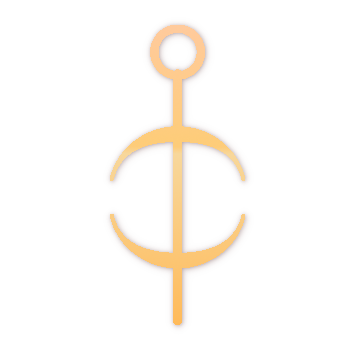
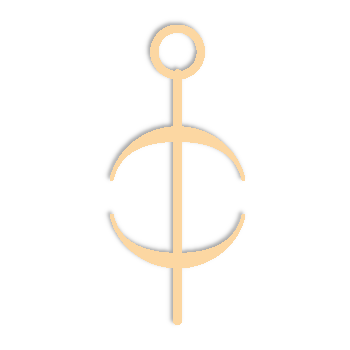
test

Changed region(s): [[0.2857, 0.1143, 0.7143, 0.9429], [0.4, 0.0571, 0.5429, 0.1714], [0.6857, 0.4857, 0.7143, 0.5143]]

diff --git a/src/pages/blog.js b/src/pages/blog.js
@@ -24,7 +24,7 @@ class Blog extends Component {
               <div className="blog-title">
                 Bel list
               </div>
-              <div className="blog-text pisava-17">Si kdaj pomislil, da ko se rodiš, si kot bel, nepopisan list. Nato prve zapise, na ta tvoj lep beli list,
+              <div className="blog-text pisava-13">Si kdaj pomislil, da ko se rodiš, si kot bel, nepopisan list. Nato prve zapise, na ta tvoj lep beli list,
               naredijo tvoji starši, kasneje jim seveda pomagajo tudi stari starši (ker bog ne daj, brez njih res
               ne gre ;)). Nekaj časa so oni tvoji učitelji, vodiči, »vsevedi« in mogoče še kakšna starejša sestra ali
               brat, za povrh, da je mera polna <span className="emoji">😉</span>. Ja, prav vsi te učijo, usmerjajo in itak vedo kaj je najbolje zate.
@@ -33,7 +33,7 @@ class Blog extends Component {
               Zraven pa puščajo svojo sled, na tem čudovitem listu, seveda tudi prijatelji…tisti »ta najboljši« in
               tisti malo manj »boljši«.
               <br />
-              Potem nastopi »ta resen« del….služba. Okolica in sodelavci pridno igrajo svojo vlogo pri pisanju
+              Potem nastopi »ta resen« del… služba. Okolica in sodelavci pridno igrajo svojo vlogo pri pisanju
               na tvoj list.
               <br />
               Nato spoznaš Ljubezen svojega življenja (če ne gre v prvo, pa mogoče v drugo, tretje….no,
@@ -42,7 +42,7 @@ class Blog extends Component {
                 <br />
               Takrat nastopiš v svoji najboljši verziji, ki jo potegneš na plano, čez vest ta »balast«.  Na začetku
               se ti razprejo krila, zadihaš s polnimi pljuči, imaš zalet. In ko imaš občutek, da boš poletel v svoji
-              najboljši verziji…BAM…pristanek na zadnjico in dobrodošel v »realnosti«. Goriva je zmanjkalo ali
+              najboljši verziji… BAM …pristanek na zadnjico in dobrodošel v »realnosti«. Goriva je zmanjkalo ali
               smetana se je polizala.
               <br />
               Na plano pridejo vsi ti »tvoji« zapisi. In velikokrat niti ne »porajtaš«, da pravzaprav razmišljaš,
@@ -75,10 +75,10 @@ class Blog extends Component {
               zadržuje, je potrebno zopet delati na sebi.
               <br />
                 <br />
-              Ja, če se odločiš za delo na sebi, ti garantiram, ne bo ti dolgčas in ne bo ti zmanjkalo dela  <span className="emoji">😃</span> .
+              Ja, če se odločiš za delo na sebi, ti garantiram, ne bo ti dolgčas in ne bo ti zmanjkalo dela  <span className="emoji">😃</span>.
               <br />
                 <br />
-              Je pa noro dober OBČUTEK, ko se osvobodiš določenih spon, prepričan, vzorcev...POLETIŠ <span className="emoji">😉</span>
+              Je pa noro dober OBČUTEK, ko se osvobodiš določenih spon, prepričan, vzorcev... POLETIŠ <span className="emoji">😉</span>
               </div>
             </div>
             <div className="blog-item">
@@ -101,7 +101,7 @@ class Blog extends Component {
                 Vam je že jasno, kam pes taco moli?? <span className="emoji" role="img">🤔</span><span className="emoji" role="img">😎</span>
                 <br />
                 <br />
-                Ker sva imela različne poglede na določene situacije in ker se nisva znala pogovarjat, izraziti, kaj šele poslušati je velikokrat prišlo, da je bila slika brez tona <span className="emoji" role="img">😕</span> (to je bil <strong><i>vzrok</i></strong> najinih prepričanj). Zdaj ko gledam nazaj, je prav hecno, kako sva v marsikateri situaciji »merila« moči<span className="emoji" role="img">😊</span>. Jaz z besedam, ker že od nekdaj sem bila vešča v komunikaciji (pa pustimo  »malenkost «, da imamo »pravo« in »nepravo« komunikacijo <span className="emoji" role="img">🙂</span>  ), on z neodzivnostjo ali molkom. Včasih sva trmarila in vlekla vsak v svojo stran, kot da vlečeva vrv ipd. Vmes pa sva še dovoljevala vmešavanje (direktno in indirektno) okolice. In ker se take situacije nikoli ne vlečejo v nedogled, je sledila <i><strong>posledica</strong></i> - ločitev. In vsak od naju je doprinesel 50:50 k situaciji.
+                Ker sva imela različne poglede na določene situacije in ker se nisva znala pogovarjat, izraziti, kaj šele poslušati je velikokrat prišlo, da je bila slika brez tona <span className="emoji" role="img">😕</span> (to je bil <strong><i>vzrok</i></strong> najinih prepričanj). Zdaj ko gledam nazaj, je prav hecno, kako sva v marsikateri situaciji »merila« moči<span className="emoji" role="img">😊</span>. Jaz z besedam, ker že od nekdaj sem bila vešča v komunikaciji (pa pustimo  »malenkost«, da imamo pravo in nepravo komunikacijo <span className="emoji" role="img">🙂</span>  ), on z neodzivnostjo ali molkom. Včasih sva trmarila in vlekla vsak v svojo stran, kot da vlečeva vrv ipd. Vmes pa sva še dovoljevala vmešavanje (direktno in indirektno) okolice. In ker se take situacije nikoli ne vlečejo v nedogled, je sledila <i><strong>posledica</strong></i> - ločitev. In vsak od naju je doprinesel 50:50 k situaciji.
                 <br />
                 <br />
                 In šele sedaj, po parih letih dela na sebi, sem dojela koncept <strong>prepričanje/vzrok/posledica</strong>.

diff --git a/src/pages/omeni.js b/src/pages/omeni.js
@@ -21,66 +21,6 @@ const OMeni = () => (
             </span>
           </p>
         </div>
-        <div className="o-meni-quote ">
-          <span className="quote-logo">
-            <img src="../icons/quote-left.png" alt="Logo" />
-          </span>
-          <p className="quote-text test-1">
-            {' '}Odnosi so najdragocenejša lastnina v naših življenjih in si zaslužijo,
-          da z njimi tako tudi ravnamo.{'    '}
-            <span className="author">(dr.Nate Booth)</span>
-
-            <span className="quote-logo">
-              <img src="../icons/quote-right.png" alt="Logo" />
-              <br />
-            </span>
-          </p>
-        </div>
-        <div className="o-meni-quote">
-          <span className="quote-logo">
-            <img src="../icons/quote-left.png" alt="Logo" />
-          </span>
-          <p className="quote-text test-2">
-            {' '}Odnosi so najdragocenejša lastnina v naših življenjih in si zaslužijo,
-          da z njimi tako tudi ravnamo.{'    '}
-            <span className="author">(dr.Nate Booth)</span>
-
-            <span className="quote-logo">
-              <img src="../icons/quote-right.png" alt="Logo" />
-              <br />
-            </span>
-          </p>
-        </div>
-        <div className="o-meni-quote">
-          <span className="quote-logo">
-            <img src="../icons/quote-left.png" alt="Logo" />
-          </span>
-          <p className="quote-text test-3">
-            {' '}Odnosi so najdragocenejša lastnina v naših življenjih in si zaslužijo,
-          da z njimi tako tudi ravnamo.{'    '}
-            <span className="author">(dr.Nate Booth)</span>
-
-            <span className="quote-logo">
-              <img src="../icons/quote-right.png" alt="Logo" />
-              <br />
-            </span>
-          </p>
-        </div>
-        <div className="o-meni-quote">
-          <span className="quote-logo">
-            <img src="../icons/quote-left.png" alt="Logo" />
-          </span>
-          <p className="quote-text test-4">
-            {' '}Odnosi so najdragocenejša lastnina v naših življenjih in si zaslužijo,
-          da z njimi tako tudi ravnamo.{'    '}
-            <span className="author">(dr.Nate Booth)</span>
-
-            <span className="quote-logo">
-              <img src="../icons/quote-right.png" alt="Logo" />
-              <br />
-            </span>
-          </p>
-        </div>
         <div className="box-container" /* style={{
           backgroundImage: `url(../assets/wave2.png)`,
           backgroundSize: 'contain',
@@ -121,7 +61,7 @@ const OMeni = () => (
 
       <div className="zahvale-section">
         <div className="zahvala zahvala-3" style={{
-          backgroundImage: `url(../assets/vil1.png)`,
+          backgroundImage: `url(../assets/vil2.png)`,
         }}>
           Minilo je par let, kar si mi prvič pomagala. S partnerjem , s katerim sem bila v zvezi 2 leti, sva
           se razšla. Iz meni, ne čisto jasnih razlogov. Bila sem obupana in na tleh. Tvoja intuicija, ti je
@@ -136,7 +76,7 @@ const OMeni = () => (
         </div>
         <div className="zahvala zahvala-10"
           style={{
-            backgroundImage: `url(../assets/vil2.png)`,
+            backgroundImage: `url(../assets/vil1.png)`,
           }}>
           Natašo sem spoznala na mojem prejšnjem delovnem mestu in takoj sem začutila, da izžareva neko posebno energijo. Takoj sem jo začutila. Postali sva prijateljici in velikokrat sem se nanjo obrnila za nasvet,najprej pri reševanju konfliktov na delovnem mestu. Znala mi je pravilno svetovati, kako in na kakšen način komunicirati z konfliktnimi osebami.
 
@@ -160,7 +100,7 @@ const OMeni = () => (
         </div>
         <div className="zahvala zahvala-1"
           style={{
-            backgroundImage: `url(../assets/vil1.png)`,
+            backgroundImage: `url(../assets/vil2.png)`,
           }}>
           Nataša, tvoji učni koraki komunikacije so res čudoviti. Dokler te človek ne spozna, niti ne ve
           kam ga je pahnil hitri tempo življenja in vsa ta tehnika...
@@ -178,8 +118,8 @@ const OMeni = () => (
         }}>
           Obvladaš!
         <div className="zahvala-name">
-            Tim
-          </div>
+            Rok
+        </div>
         </div>
         <div className="zahvala zahvala-6" style={{
           backgroundImage: `url(../assets/vil1.png)`,
@@ -201,7 +141,7 @@ const OMeni = () => (
         </div>
 
         <div className="zahvala zahvala-9" style={{
-          backgroundImage: `url(../assets/vil1.png)`,
+          backgroundImage: `url(../assets/vil2.png)`,
         }}>
           Imaš veliko znanja.
         <div className="zahvala-name">

diff --git a/src/pages/komunikacija-partner.js b/src/pages/komunikacija-partner.js
@@ -9,8 +9,8 @@ const KomunikacijaPartner = () => (
       <div className="komunikacija-title">Partnerski odnos</div>
       <div className="komunikacija-item kom-img">
         <div className="komunikacija-text">
-          Ali veste, da je partnerski odnos sestavljen iz 50:50 doprinosa? A ne, kakšno olajšanje <span className="emoji">😉 </span>. Ni vse vaše. Se pravi, da ena oseba ne mora biti kriva za vse. Pa saj to, v bistvu tudi vemo.
-          A vseeno dopuščate, da ko se verbalno spopadeta ( tu gre še za merjenje moči ali ega <span className="emoji">😉 </span>), se vas označi kot: »Ti si kriv/kriva za vse!«<br />
+          Ali veste, da je partnerski odnos sestavljen iz 50:50 doprinosa? A ne, kakšno olajšanje <span className="emoji">😉</span>. Ni vse vaše. Se pravi, da ena oseba ne mora biti kriva za vse. Pa saj to, v bistvu tudi vemo.
+          A vseeno dopuščate, da ko se verbalno spopadeta ( tu gre še za merjenje moči ali ega <span className="emoji">😉</span>), se vas označi kot: »Ti si kriv/kriva za vse!«<br />
 
           Partner je vaše ogledalo in vi njemu. Kaj to pomeni? Da na vse kar odreagirate, je pravzaprav neka rana, vzorec v vas, ki ga je potrebno ozavestiti in predelati. Zakaj včasih odreagiramo, kot da nas je pičila osa, spet drugič pa kot da ni nič bilo?
           Zaradi vzorcev in prepričanj, ki so v nas in ki smo jih pridobili skozi otroštvo in kasneje skozi dobo odraščanja.
@@ -18,7 +18,7 @@ const KomunikacijaPartner = () => (
           Ampak tudi za to obstaja »zdravilo«. Tu gre za proces, da se naučite, kako najbolj optimalno glede na situacijo, skomunicirati stvari.
         </div>
       </div>
-      <img className="kom-item-img" src="../assets/vil-zaupanje-2.png" alt="" />
+      <img className="kom-item-img" src="../assets/vil-zaupanje-1.png" alt="" />
     </div>
   </Layout>
 )

diff --git a/src/css/main.scss b/src/css/main.scss
@@ -236,12 +236,10 @@ ul.right-list-112 {
 }
 
 .blog-text.pisava-19 {
-    font-style: italic !important;
     font-size: 22px;
 }
 
 .blog-text.pisava-17 {
-    font-style: italic !important;
 }
 
 .blog-text.pisava-13 {
@@ -262,6 +260,30 @@ ul.right-list-112 {
     font-style: italic;
     color: #220202;
     text-align: justify;
+}
+
+.aktualno-content {
+    color: #220202;
+    margin: 5% auto 1% auto;
+    font-size: x-large;
+    font-style: italic;
+    width: 70%;
+}
+
+.aktualno-li {
+    list-style: disclosure-closed;
+}
+
+.aktualno-li > a {
+    color: rgb(143, 34, 34);
+    font-size: larger;
+}
+
+.aktualno-li > div {
+    color: rgb(100, 77, 77);
+    font-size: small;
+    margin-left: 2%;
+    display: inline-block;
 }
 
 .komunikacija-intro {
@@ -297,6 +319,12 @@ ul.right-list-112 {
     margin-right: 2%;
 }
 
+.aktualno-text {
+    width: 68%;
+    font-size: large;
+    margin-right: 2%;
+}
+
 .komunikacija-content-bottom {
     margin-top: 10%;
     padding: 0px 3%;
@@ -317,6 +345,13 @@ ul.right-list-112 {
     margin-bottom: 2.5%;
     width: 60rem;
     text-align: center;
+}
+
+.aktualno-title {
+    font-size: x-large;
+    font-weight: bold;
+    margin-bottom: 2.5%;
+    width: 60rem;
 }
 
 .o-meni-quote {
@@ -655,9 +690,7 @@ li {
     /** varianta 2 */
     background: linear-gradient(to bottom, #f4f391, #f4db91, #f7ae51, #fd8967, #f4a35d, #f9ee95, #f9ee95);
     /** varianta 4*/
-    background: linear-gradient(to bottom, #fdaa44, #f6f5a4, #faecb7);
-    /** varianta 5 */
-    background: linear-gradient(to bottom, #face8c, #feec90, #fffcef);
+    background: linear-gradient(to bottom, #ffcc8e, #f9f0aa, #fff9cb, #fff7da);
 }
 
 .quote-text {

diff --git a/src/pages/komunikacija-splosna.js b/src/pages/komunikacija-splosna.js
@@ -11,9 +11,9 @@ const KomunikacijaSplosna = () => (
       <div className="komunikacija-title">Komunikacija s prijatelji, sošolci ali na sploh</div>
       <div className="komunikacija-item kom-img">
         <div className="komunikacija-text">
-          Verjetno se vam je že pripetilo, da ste nekomu poskušali nekaj dopovedati, pa enostavno ni »štekal«. Ali pa, da ste še z nekom doživela isto stvar, videla isti dogodek, osebo ipd. pa sta jo vsak po svoje doživela in opisala. To je nekaj čisto običajnega. Ljudje smo si različni (hvala bogu <span className="emoji"> 🙂 </span>) z različnimi prioritetami, zaznavanji, občutki…To pomeni, da je za nekoga sončni zahod WOW, za drugega pa NIČ POSEBNEGA.
+          Verjetno se vam je že pripetilo, da ste nekomu poskušali nekaj dopovedati, pa enostavno ni »štekal«. Ali pa, da ste še z nekom doživela isto stvar, videla isti dogodek, osebo ipd. pa sta jo vsak po svoje doživela in opisala. To je nekaj čisto običajnega. Ljudje smo si različni (hvala bogu <span className="emoji">🙂</span>) z različnimi prioritetami, zaznavanji, občutki…To pomeni, da je za nekoga sončni zahod WOW, za drugega pa NIČ POSEBNEGA.
           <br />
-          Če želimo, da smo slišani, razumljeni, da na primer premagamo strah, se je potrebno naučiti  jasnega  izražanja  in seveda na pravi način podati informacije.
+          Če želimo, da smo slišani, razumljeni, da na primer premagamo strah, se je potrebno naučiti jasnega izražanja in seveda na pravi način podati informacije.
           <br />
         </div>
       </div>

diff --git a/src/pages/komunikacija-prijatelji.js b/src/pages/komunikacija-prijatelji.js
@@ -11,7 +11,7 @@ const KomunikacijaPrijatelji = () => (
       <div className="komunikacija-title">Komunikacija s prijatelji, sošolci ali na sploh</div>
       <div className="komunikacija-item kom-img">
         <div className="komunikacija-text">
-          Verjetno se vam je že pripetilo, da ste nekomu poskušali nekaj dopovedati, pa enostavno ni »štekal«. Ali pa, da ste še z nekom doživela isto stvar, videla isti dogodek, osebo ipd. pa sta jo vsak po svoje doživela in opisala. To je nekaj čisto običajnega. Ljudje smo si različni (hvala bogu <span className="emoji"> 🙂 </span>) z različnimi prioritetami, zaznavanji, občutki…To pomeni, da je za nekoga sončni zahod WOW, za drugega pa NIČ POSEBNEGA.
+          Verjetno se vam je že pripetilo, da ste nekomu poskušali nekaj dopovedati, pa enostavno ni »štekal«. Ali pa, da ste še z nekom doživela isto stvar, videla isti dogodek, osebo ipd. pa sta jo vsak po svoje doživela in opisala. To je nekaj čisto običajnega. Ljudje smo si različni (hvala bogu <span className="emoji">🙂</span>) z različnimi prioritetami, zaznavanji, občutki…To pomeni, da je za nekoga sončni zahod WOW, za drugega pa NIČ POSEBNEGA.
           <br />
           Če želimo, da smo slišani, razumljeni, da na primer premagamo strah, se je potrebno naučiti  jasnega  izražanja  in seveda na pravi način podati informacije.
           <br />

diff --git a/src/pages/pomoc-pri-promociji.js b/src/pages/pomoc-pri-promociji.js
@@ -7,7 +7,7 @@ const PomocPriPromociji = () => (
     <div className="promocija-content">
 
       <p className="promotion-text">
-        Ja, nekateri živijo svoje sanje spet drugi , so v nizkem zaletu in tretji…še ni zrelo <span className="emoji">😉</span>
+        Ja, nekateri živijo svoje sanje spet drugi , so v nizkem zaletu in tretji… še ni zrelo <span className="emoji">😉</span>
         <br />
         <br />
         Imaš idejo, znanje, veselje in produkt a nikakor zadeva ne steče, tako kot si želiš.
@@ -17,7 +17,7 @@ const PomocPriPromociji = () => (
         Moja strast in želja je, da si pomagamo, da se povežemo.
         <br />
         <br />
-        Zato, če potrebuješ malo pomoči pri »vzletu« sem tu <span className="emoji">😉</span> . Vsi vemo, da ko te nekdo priporoči ali govori
+        Zato, če potrebuješ malo pomoči pri »vzletu« sem tu <span className="emoji">😉</span>. Vsi vemo, da ko te nekdo priporoči ali govori
         o tvoji strasti, ki jo želiš deliti z drugimi, gre veliko hitreje.
         <br />
         <br />

diff --git a/src/pages/aktualno.js b/src/pages/aktualno.js
@@ -1,14 +1,36 @@
 import React from "react"
-
+import { Link } from "@reach/router"
 import Layout from "../components/layout"
 
 const Aktualno = () => (
   <Layout>
-    <div className="predavanja-content">
-      Aktualna vsebina
+    <div className="aktualno-content">
+      <div className="aktualno-title"> Novi zapisi na blogu </div>
+
+      <div className="aktualno-text">
+        <ul className="aktualno-ul">
+          <br />
+          <li className="aktualno-li">
+            <Link id="1"
+              key="1"
+              to="/blog/"
+            > Prepričanje</Link>
+            <div>1.11.2020</div>
+          </li>
+          <br />
+          <li className="aktualno-li">
+            <Link id="0"
+              key="0"
+              to="/blog/"
+            > Bel list</Link>
+            <div>15.10.2020</div>
+          </li>
+          <br />
+        </ul>
+      </div>
     </div>
 
-  </Layout>
+  </Layout >
 )
 
 export default Aktualno

diff --git a/src/pages/osebna-komunikacija.js b/src/pages/osebna-komunikacija.js
@@ -20,7 +20,7 @@ const komunikacija = () => (
             In ko ozavestimo in si priznamo, da imamo v svojem življenju kar nekaj »prtljage« od staršev, starih staršev itd nas lahko prevzame groza.
             Da spremenimo svoja prepričanja, vzorce in vse kar nas ustavlja je potrebno zagristi v »kislo jabolko«. Vendar tam kje je volja je tudi moč in uspeh.
             Rada se pohecam, da je potrebno stari program izbrisati in naložiti novi softwere, ki je naš in pisan nam na kožo <span className="emoji">😉 </span>.
-            Poiskati svoje občutke, misli in besede…tisto kar nam služi, nas dviguje in pomaga. Step by step – vse se da.
+            Poiskati svoje občutke, misli in besede… tisto kar nam služi, nas dviguje in pomaga. Step by step – vse se da.
         </div>
       </div>
       <img className="kom-item-img" src="../assets/vil-komunikacija-1.png" alt="" />

diff --git a/src/pages/poslusalka.js b/src/pages/poslusalka.js
@@ -12,10 +12,10 @@ const Poslusalka = () => (
         <br />
         In včasih je dovolj že to, da breme ki ga nosiš, podeliš še z nekom, neznancem, ki ne obsoja in ne pametuje, ampak samo posluša.
         <br />
-        Lahko pa kot zunanja opazovalka, ki ni čustveno vpletena v situacijo, vam povem/nakaže v kateri smeri poskušajte rešiti ali iti. Temu jaz pravim, POGLED IZ DRUGEGE ZORNEGA KOTA.
+        Lahko pa kot zunanja opazovalka, ki ni čustveno vpletena v situacijo, vam povem/nakaže v kateri smeri poskušajte rešiti ali iti. Temu jaz pravim, POGLED IZ DRUGEGA ZORNEGA KOTA.
         </div>
       </div>
-      <img className="kom-item-img" src="../assets/vil-uspeh-2.png" alt="" />
+      <img className="kom-item-img" src="../assets/vil-uspeh-11.png" alt="" />
     </div>
     <div className="komunikacija-content-bottom">
       ...

diff --git a/src/pages/komunikacija-otrok.js b/src/pages/komunikacija-otrok.js
@@ -9,7 +9,7 @@ const KomunikacijaOtrok = () => (
       <div className="komunikacija-item kom-img">
         <div className="komunikacija-text">
           Super, odločila sta se da povečata svojo družinico. V glavi preigravata, kako bo, se pripravljata, bereta knjige o starševstvu in vzgoji otroka, pogovarjata s prijatelji, ki že imajo to izkušnjo ipd.
-          Ok lahko pa vaju je njena nosečnost tudi en malce presenetila <span className="emoji">😉 </span>. Nič hudega, podata se na pot starševstva.
+          Ok, lahko pa vaju je njena nosečnost tudi en malce presenetila <span className="emoji">😉</span>. Nič hudega, podata se na pot starševstva.
           <br />
           Običajno, na začetku vse teče kot sta si predstavljala, no več ali manj <span className="emoji">😉 </span>.
           <br />

diff --git a/src/pages/komunikacija-sluzba.js b/src/pages/komunikacija-sluzba.js
@@ -10,7 +10,7 @@ const KomunikacijaSluzba = () => (
     </div> */}
 
     <div className="komunikacija-content">
-      <div className="komunikacija-title">Komunikacija na delovnem mestu-nadrejenimi in sodelavci</div>
+      <div className="komunikacija-title">Komunikacija na delovnem mestu - nadrejenimi in sodelavci</div>
       <div className="komunikacija-item kom-img">
         <div className="komunikacija-text">
           Ko sem pred približno 30 leti pričela delati v podjetju, kjer se je pričakovala da boš samoiniciativen, fleksibilen, učljiv, skoraj vedno na razpolago in še kaj bi se našlo, sem dala vse od sebe, da bi »zadovoljila te kriterije« oziroma pričakovanja. Rezultat tega je bil (skozi daljše obdobje), da ko sem se ozrla nazaj, sem videla kako malo sem bila pravzaprav cenjena.
